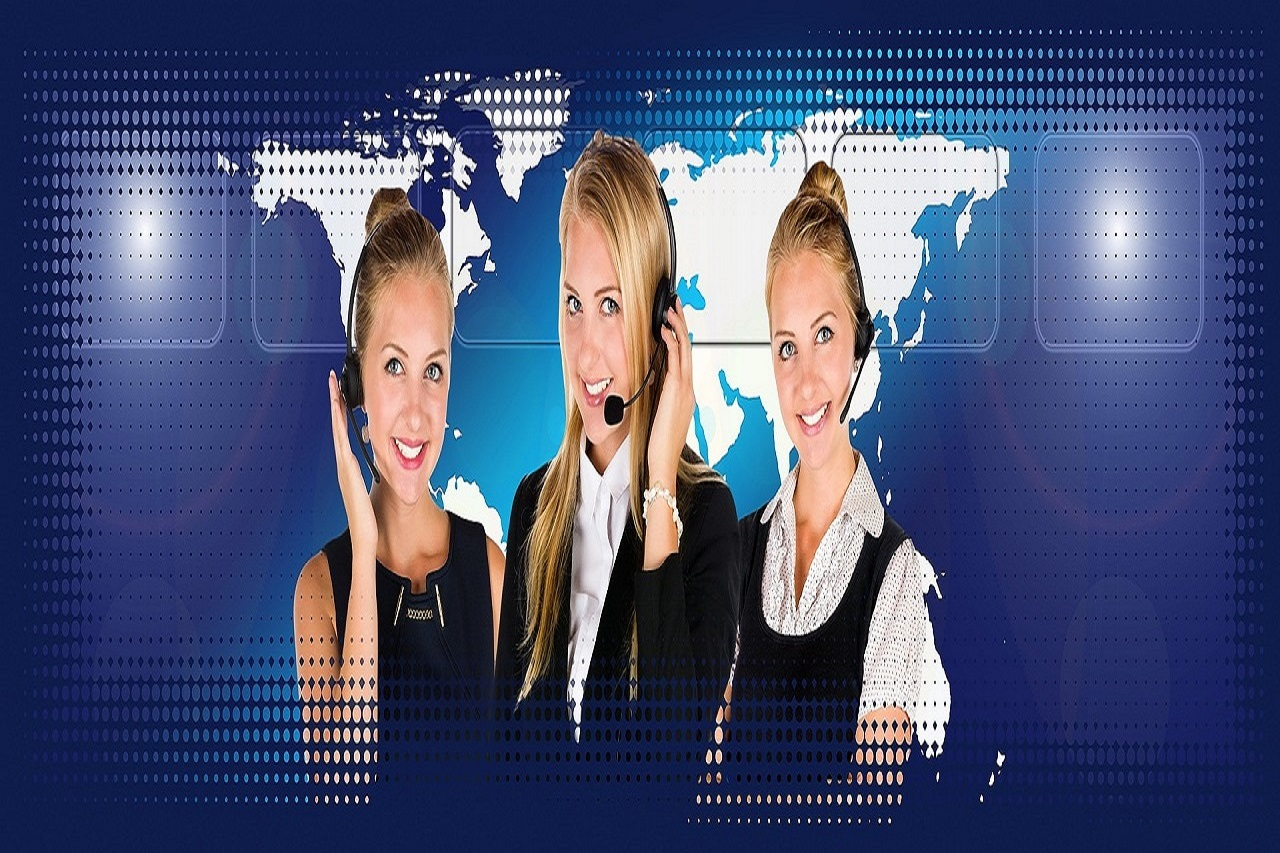
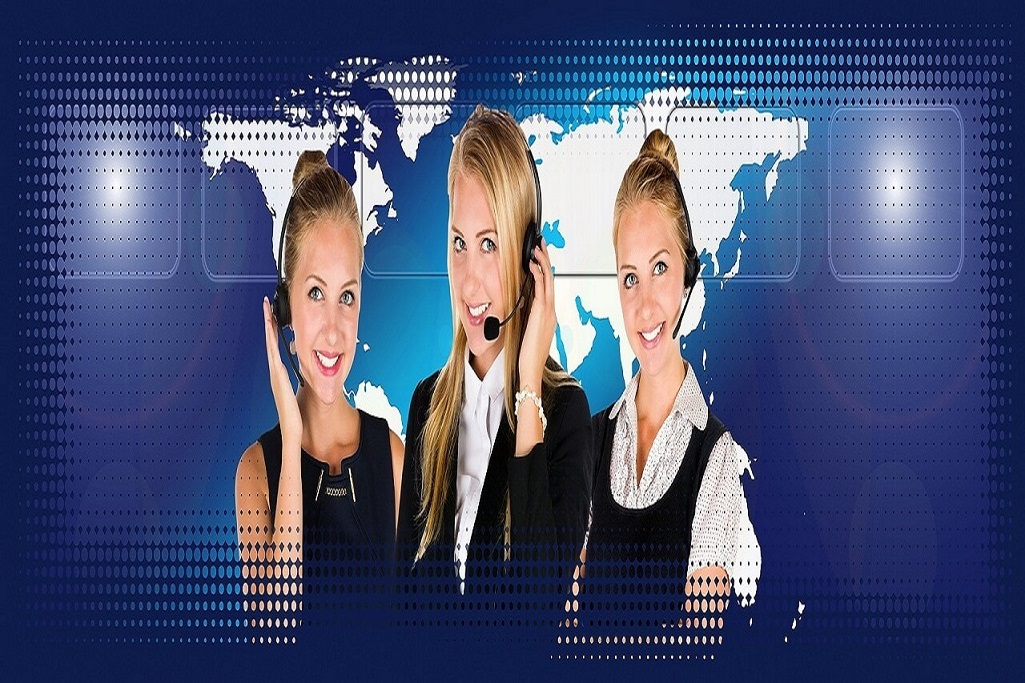
updated readme and resized photos

diff --git a/README.md b/README.md
@@ -1,2 +1,18 @@
 # repairion
-materialize framework project, a simple template website introducing company
+> startup landing page
+
+It's a startup landing page with Materialize framework. This website introduces a company that has their own special repair service for home appliance.
+
+* [repairion](https://april9288.github.io/repairion/) - It's deployed here!
+
+## Built With
+
+* [Materialize](https://materializecss.com/) - It's a design framework supported by Google
+
+## Meta
+
+James Jongho Kim 
+- [Portfolio](https://april9288.github.io/) - It's my portfolio website
+- [Github](https://github.com/april9288) - This is my Github page
+- [Linkedin](https://www.linkedin.com/in/jongho-kim-b05618170/) - This is my Linkedin page
+- april9288@gmail.com
